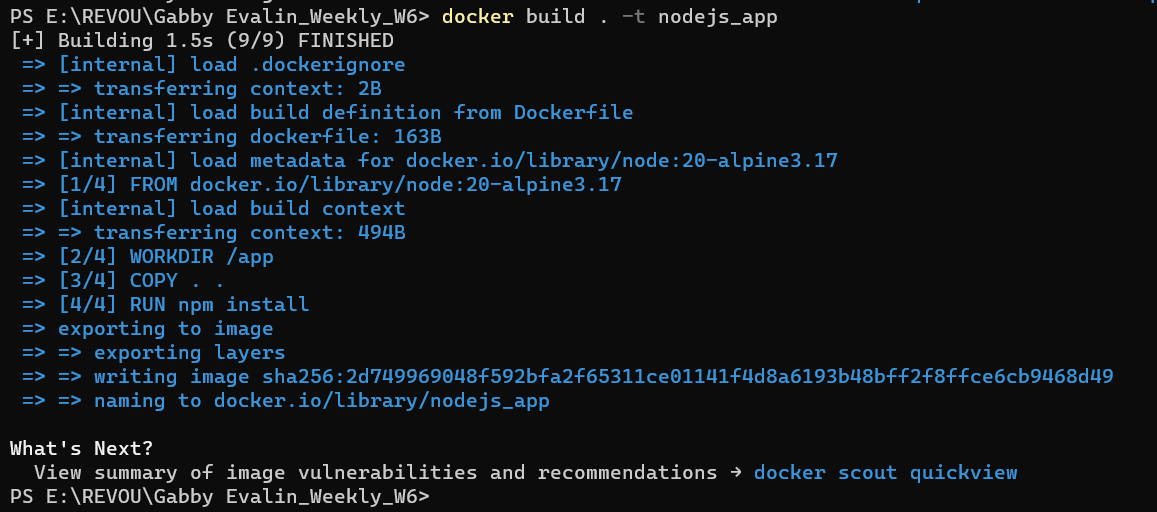
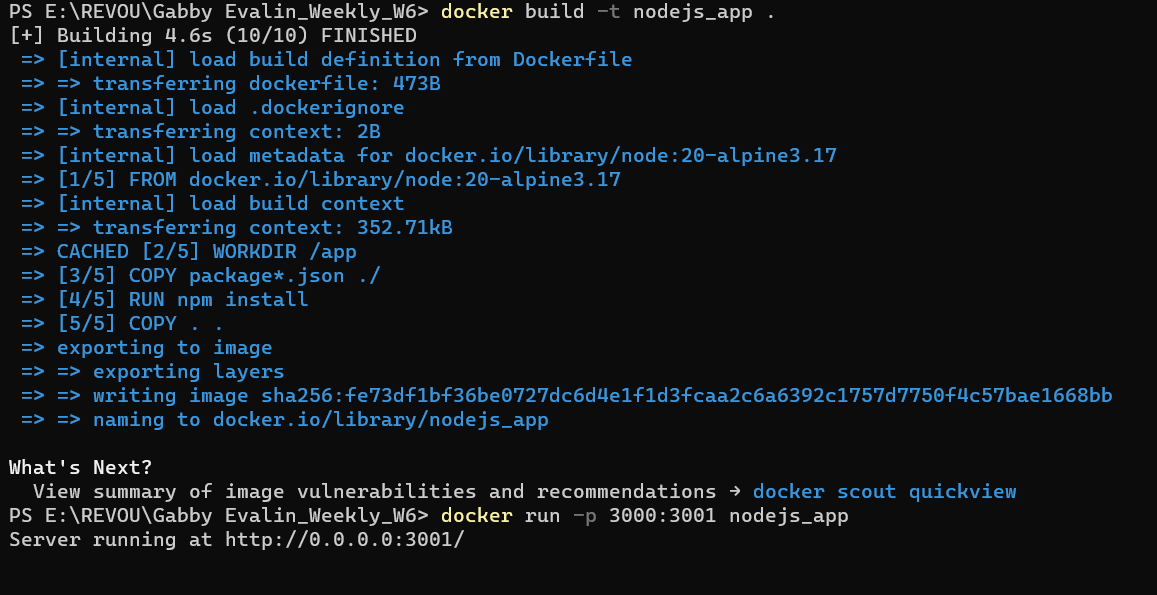
modified readme.md

Changed region(s): [[0.0, 0.0, 0.9646, 1.0]]

diff --git a/README.md b/README.md
@@ -27,6 +27,7 @@ If Docker is installed correctly, you should see the version number displayed in
 To verify that the image has been pulled successfully, you can use the following command to list all the images on your local machine:
 
 ``` docker images ```
+
 ![docker images](images/docker2.png)
 
 ## Dockertizing a Node.js Project without Installing Node on Your Machine
@@ -61,19 +62,22 @@ CMD ["node", "app.js"]
 2. Build the docker image
 Run the following command to build the Docker image:
 
-``` docker build . -t nodejs_app  ```
+``` docker build -t nodejs_app .  ```
+
 ![docker build](images/docker3.png)
 
 3. Run the Docker Container:
 
 After the image is built, you can run a container based on the image using the following command:
 
-``` docker run -d -p 3002:3000 nodejs_app ```
+``` docker run -d -p 3000:3001 nodejs_app ```
 
 The -d flag runs the container in detached mode (in the background). The -p flag maps port 3000 from the container to port 3000 on your host machine.
 
 4. Access Your Node.js Application:
 
-The Node.js application should now be running inside the Docker container. It can be accessed in your web browser by visiting http://localhost:3000.
+The Node.js application should now be running inside the Docker container. If successful, you should see you screen like this:
 
-![result](images/docker4.png)
+![result](images/)
+
+You should now be able to access it through your web browser by visiting http://localhost:3000
